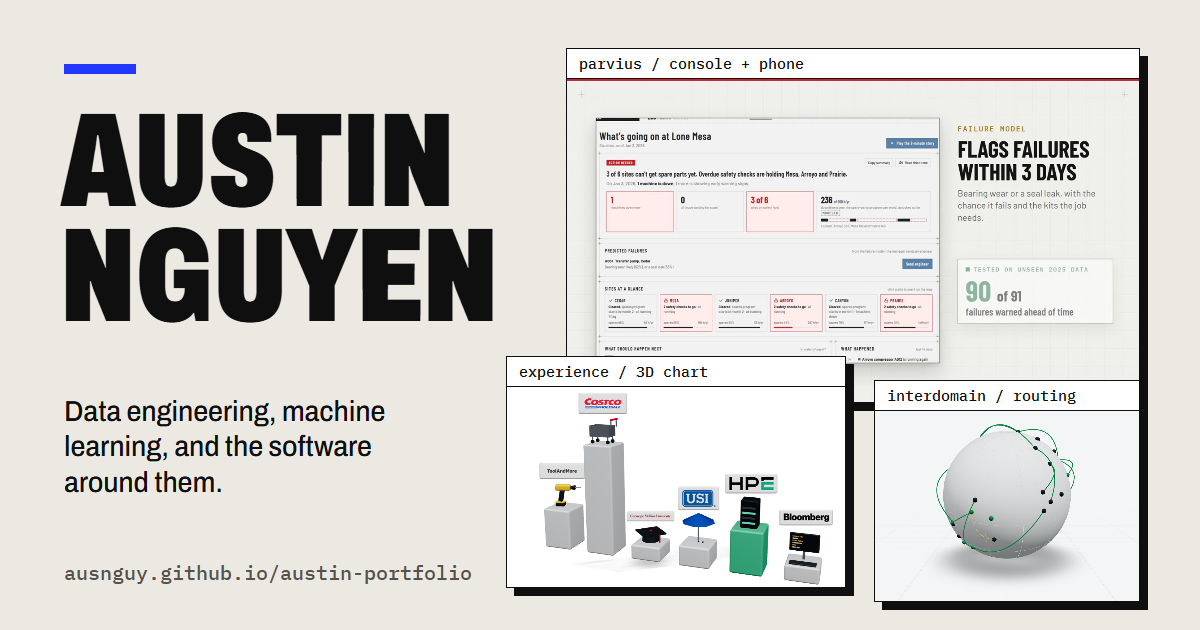
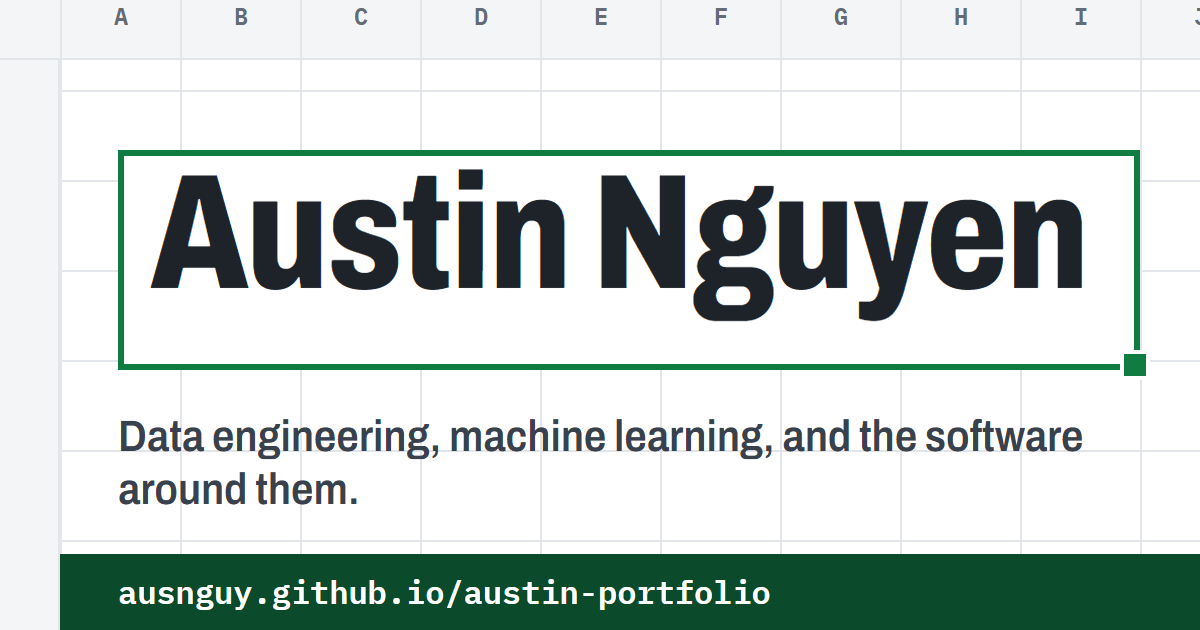
Link preview in the site's own workbook style, no project references, readable at phone size

diff --git a/tools/social/og.html b/tools/social/og.html
@@ -3,33 +3,30 @@
 <html lang="en">
 <head>
 <meta charset="utf-8">
-<link href="https://fonts.googleapis.com/css2?family=Archivo:wdth,wght@62..125,400..900&family=IBM+Plex+Mono:wght@500&display=swap" rel="stylesheet">
+<link href="https://fonts.googleapis.com/css2?family=Archivo:wdth,wght@62..125,400..900&family=IBM+Plex+Mono:wght@500;600&display=swap" rel="stylesheet">
 <style>
   * { box-sizing: border-box; margin: 0; }
-  body { width: 1200px; height: 630px; position: relative; overflow: hidden; background: #ECE9E2; color: #0F0F0F; font-family: 'Archivo', sans-serif; }
-  .rule { position: absolute; left: 64px; top: 64px; width: 72px; height: 10px; background: #2338FF; }
-  h1 { position: absolute; left: 60px; top: 104px; font-size: 134px; line-height: .86; font-weight: 900; font-stretch: 68%; letter-spacing: -1px; text-transform: uppercase; }
-  .line { position: absolute; left: 64px; top: 394px; width: 380px; font-size: 29px; line-height: 1.22; font-weight: 500; font-stretch: 90%; }
-  .url { position: absolute; left: 64px; bottom: 44px; font: 500 20px 'IBM Plex Mono', monospace; color: #55524b; }
-  .win { position: absolute; background: #fff; border: 1.5px solid #0F0F0F; box-shadow: 8px 8px 0 #0F0F0F; overflow: hidden; }
-  .win .t { height: 30px; padding: 0 12px; display: flex; align-items: center; font: 500 15px 'IBM Plex Mono', monospace; background: #fff; border-bottom: 1.5px solid #0F0F0F; }
-  .win img { display: block; width: 100%; object-fit: cover; }
-  .a { left: 566px; top: 48px; width: 574px; }
-  .a img { height: 323px; }
-  .b { left: 506px; top: 356px; width: 340px; }
-  .b .box { height: 200px; background: #fff url(chart.png) no-repeat; background-size: 118% auto; background-position: 53% 33%; }
-  .c { left: 874px; top: 380px; width: 266px; background: #fff; }
-  .c img { height: 190px; }
+  body { width: 1200px; height: 630px; position: relative; overflow: hidden; background: #fff; color: #1D2329; font-family: 'Archivo', sans-serif; }
+  /* the site's grid: 120px columns, 90px rows */
+  .grid { position: absolute; inset: 0; background-image: linear-gradient(#E2E5E9 2px, transparent 2px), linear-gradient(90deg, #E2E5E9 2px, transparent 2px); background-size: 120px 90px; background-position: 60px 0; }
+  .cols { position: absolute; left: 0; right: 0; top: 0; height: 60px; background: #F3F5F7; border-bottom: 2px solid #E2E5E9; }
+  .cols span { position: absolute; top: 0; width: 120px; height: 60px; line-height: 60px; text-align: center; font: 600 24px 'IBM Plex Mono', monospace; color: #636B75; border-left: 2px solid #E2E5E9; }
+  .rows { position: absolute; left: 0; top: 60px; bottom: 0; width: 60px; background: #F3F5F7; border-right: 2px solid #E2E5E9; }
+  /* selected cell, like the favicon: green frame plus a fill handle */
+  .sel { position: absolute; left: 118px; top: 150px; width: 1022px; height: 220px; background: #fff; border: 6px solid #107C41; }
+  .sel::after { content: ''; position: absolute; right: -16px; bottom: -16px; width: 22px; height: 22px; background: #107C41; border: 4px solid #fff; }
+  h1 { position: absolute; left: 150px; top: 160px; font-size: 164px; line-height: .9; font-weight: 800; font-stretch: 78%; letter-spacing: -2px; white-space: nowrap; }
+  .line { position: absolute; left: 118px; top: 410px; width: 1020px; font-size: 44px; line-height: 1.2; font-weight: 600; font-stretch: 88%; color: #39424C; }
+  .bar { position: absolute; left: 60px; right: 0; bottom: 0; height: 76px; background: #0B4A2B; color: #fff; padding: 0 58px; display: flex; align-items: center; font: 600 32px 'IBM Plex Mono', monospace; }
 </style>
 </head>
 <body>
-  <div class="rule"></div>
-  <h1>Austin<br>Nguyen</h1>
+  <div class="grid"></div>
+  <div class="cols"><span style="left:60px">A</span><span style="left:180px">B</span><span style="left:300px">C</span><span style="left:420px">D</span><span style="left:540px">E</span><span style="left:660px">F</span><span style="left:780px">G</span><span style="left:900px">H</span><span style="left:1020px">I</span><span style="left:1140px">J</span></div>
+  <div class="rows"></div>
+  <div class="sel"></div>
+  <h1>Austin Nguyen</h1>
   <p class="line">Data engineering, machine learning, and the software around them.</p>
-  <div class="url">ausnguy.github.io/austin-portfolio</div>
-
-  <div class="win a"><div class="t">parvius / console + phone</div><img src="../../public/casequest/loop-poster.jpg" alt=""></div>
-  <div class="win b"><div class="t">experience / 3D chart</div><div class="box"></div></div>
-  <div class="win c"><div class="t">interdomain / routing</div><img src="../../public/thumbs/interdomain.png" alt=""></div>
+  <div class="bar">ausnguy.github.io/austin-portfolio</div>
 </body>
 </html>

diff --git a/index.html b/index.html
@@ -14,12 +14,12 @@
     <meta property="og:url" content="https://ausnguy.github.io/austin-portfolio/" />
     <meta property="og:title" content="Austin Nguyen | Data systems, end to end" />
     <meta property="og:description" content="MIS at the University of Houston (3.95 GPA) and Data Analyst Intern at HPE. Pipelines, ML models, dashboards and the apps on top." />
-    <meta property="og:image" content="https://ausnguy.github.io/austin-portfolio/og.png?v=4" />
+    <meta property="og:image" content="https://ausnguy.github.io/austin-portfolio/og.png?v=5" />
     <meta property="og:image:width" content="1200" />
     <meta property="og:image:height" content="630" />
     <meta property="og:image:alt" content="Austin Nguyen: I ship data systems end to end. 8.7K events per second, 90 of 91 failures flagged, 3.95 GPA. Shows the Interdomain and Parvius projects." />
     <meta name="twitter:card" content="summary_large_image" />
-    <meta name="twitter:image" content="https://ausnguy.github.io/austin-portfolio/og.png?v=4" />
+    <meta name="twitter:image" content="https://ausnguy.github.io/austin-portfolio/og.png?v=5" />
     <meta name="description" content="Austin Nguyen builds data systems end to end: pipelines, ML models, dashboards and the apps on top. Projects, experience, and a local AI you can ask about Austin." />
     <script>
       // Light by default; dark only if the visitor chose it with the toggle. Runs before first paint so there is no flash.
